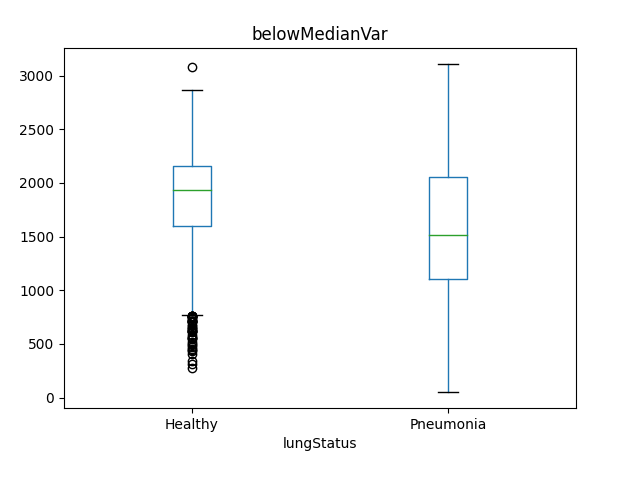
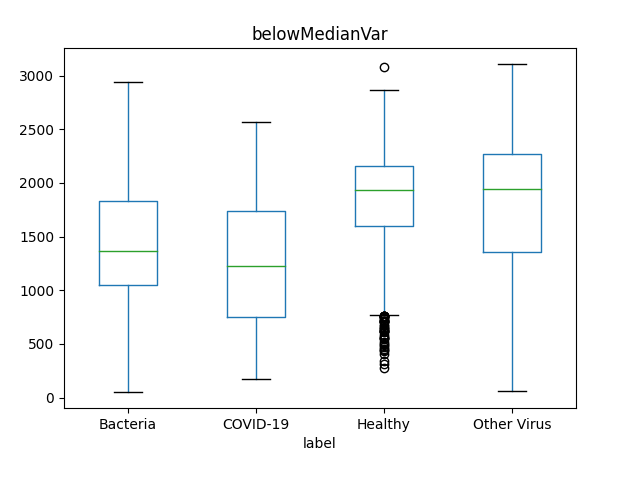
updated side by side boxplots of features to use 4 classes: - "Healthy", "Bacteria", "COVID-19", "Other Virus"

diff --git a/exploratory_analysis.py b/exploratory_analysis.py
@@ -32,7 +32,7 @@ for index, row in df.iterrows():
     if count > 7:
         break
 
-# Create multinomial label     
+# Create multinomial label
 for index, row in df.iterrows():
     allLabel = ''
     if row['Label'] == 'Normal':
@@ -43,9 +43,9 @@ for index, row in df.iterrows():
         allLabel = 'COVID-19'
     else:
         allLabel = 'Other Virus'
-        
+
     df.at[index, 'allLabel'] = allLabel
-    
+
 df_train = df[df['Dataset_type'] == 'TRAIN']
 df_test = df[df['Dataset_type'] == 'TEST']
 
@@ -54,16 +54,16 @@ df_test.to_pickle('data/test_metadata.pkl')
 
 ################################ Image Augmentation #####################################
 train_datagen = ImageDataGenerator(featurewise_center=False,
-                                   samplewise_center=False, 
-                                   featurewise_std_normalization=False, 
-                                   samplewise_std_normalization=False, 
-                                   zca_whitening=False, 
-                                   rotation_range = 30,  
+                                   samplewise_center=False,
+                                   featurewise_std_normalization=False,
+                                   samplewise_std_normalization=False,
+                                   zca_whitening=False,
+                                   rotation_range = 30,
                                    zoom_range = 0.2,
-                                   width_shift_range=0.1,  
-                                   height_shift_range=0.1,  
-                                   horizontal_flip = True, 
-                                   vertical_flip=False) 
+                                   width_shift_range=0.1,
+                                   height_shift_range=0.1,
+                                   horizontal_flip = True,
+                                   vertical_flip=False)
 
 test_datagen = ImageDataGenerator()
 
@@ -71,7 +71,7 @@ PIXELS_RESIZE = 200
 train_flow = train_datagen.flow_from_dataframe(dataframe = df_train,
                                                directory = 'data/train',
                                                x_col = 'X_ray_image_name',
-                                               y_col = 'allLabel', 
+                                               y_col = 'allLabel',
                                                target_size = (PIXELS_RESIZE, PIXELS_RESIZE),
                                                color_mode = 'grayscale',
                                                class_mode = 'raw')
@@ -79,7 +79,7 @@ train_flow = train_datagen.flow_from_dataframe(dataframe = df_train,
 test_flow = test_datagen.flow_from_dataframe(dataframe = df_test,
                                              directory = 'data/test',
                                              x_col = 'X_ray_image_name',
-                                             y_col = 'allLabel', 
+                                             y_col = 'allLabel',
                                              target_size = (PIXELS_RESIZE, PIXELS_RESIZE),
                                              color_mode = 'grayscale',
                                              class_mode = 'raw')
@@ -108,9 +108,9 @@ def img_summary(imgr, label):
             x2ypos[x,y] = (x*x)*y*(imgr[x,y]/255)
             xy2pos[x,y] = x*(y*y)*(imgr[x,y]/255)
 
-    n = PIXELS_RESIZE*PIXELS_RESIZE        
+    n = PIXELS_RESIZE*PIXELS_RESIZE
     xybar = ((n * np.sum(xpos*ypos)) - (np.sum(xpos)*np.sum(ypos))) / (np.sqrt((n*np.sum(xpos**2) - np.sum(xpos)**2) * (n*np.sum(ypos**2) - np.sum(ypos)**2)))
-    
+
     numMedian = 0
     if medianPixel in pixelCounts.keys():
         numMedian = pixelCounts[medianPixel]
@@ -151,13 +151,13 @@ def transform_data(imageAugIter, batch):
         count = count + 1
         if count > batch:
             break
-            
+
         images = x[0]
         labels = x[1]
-        
+
         for img, label in zip(images, labels):
             summary_dict = img_summary(img.reshape(PIXELS_RESIZE, PIXELS_RESIZE), label)
-            
+
             df_transform = df_transform.append({
                 'img': summary_dict['img'],
                 'label': summary_dict['label'],
@@ -213,14 +213,14 @@ load_img(img_path).save('images/normal.png')
 print('Image of normal lung saved to images/')
 
 # Example x-ray of virus lung
-img_name = df_train.loc[(df_train['Label'] == 'Pnemonia') & 
+img_name = df_train.loc[(df_train['Label'] == 'Pnemonia') &
                        (df_train['Label_1_Virus_category'] == 'Virus')].iloc[3]['X_ray_image_name']
 img_path = 'data/train/' + img_name
 load_img(img_path).save('images/virus.png')
 print('Image of virus lung saved to images/')
 
 # Example x-ray of bacteria lung
-img_name = df_train.loc[(df_train['Label'] == 'Pnemonia') & 
+img_name = df_train.loc[(df_train['Label'] == 'Pnemonia') &
                        (df_train['Label_1_Virus_category'] == 'bacteria')].iloc[10]['X_ray_image_name']
 img_path = 'data/train/' + img_name
 load_img(img_path).save('images/bacteria.png')
@@ -271,9 +271,9 @@ plt.clf()
 
 print('Creating boxplots...')
 # for every explanatory variable, create boxplot
-for col in train.columns:
+for col in df_train.columns:
     if col not in ('img', 'label', 'lungStatus'):
-        boxplot = train.boxplot(by = 'lungStatus', column = [col], grid = False)
+        boxplot = train.boxplot(by = 'label', column = [col], grid = False)
         plt.title(col)
         plt.suptitle("")
         plt.savefig('images/boxplot_' + col)
